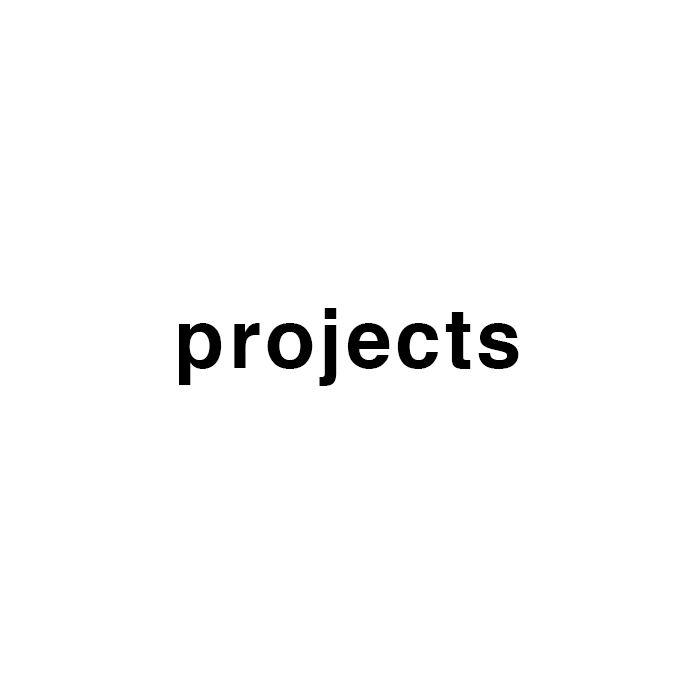
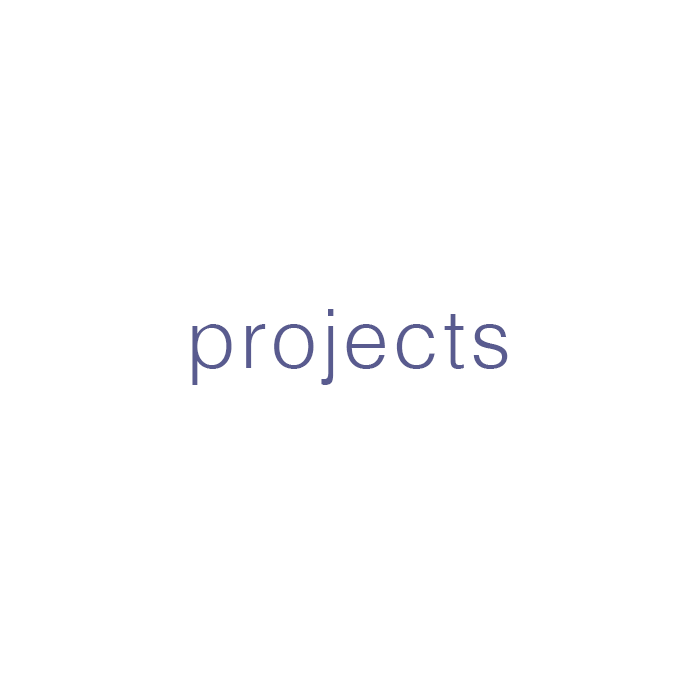
fixing up particles

Changed region(s): [[0.24, 0.42, 0.75, 0.57]]

diff --git a/public/js/three/cube.js b/public/js/three/cube.js
@@ -42,7 +42,7 @@ function init() {
   } );
   for ( var i = 0; i < 1000; i++ ) {
     particle = new THREE.Sprite( spriteMaterial );
-    initParticle( particle, i * 250 );
+    initParticle( particle, i * 200 );
     scene.add( particle );
   }
   // Cube
@@ -97,8 +97,8 @@ function onWindowResize() {
 
 function generateSprite() {
   var canvas = document.createElement( 'canvas' );
-  canvas.width = 16;
-  canvas.height = 16;
+  canvas.width = 12;
+  canvas.height = 12;
   var context = canvas.getContext( '2d' );
   var gradient = context.createRadialGradient( canvas.width / 2, canvas.height / 2, 0, canvas.width / 2, canvas.height / 2, canvas.width / 2 );
   gradient.addColorStop( 0, 'rgba(255,255,255,1)' );
@@ -113,19 +113,19 @@ function initParticle( particle, delay ) {
   var particle = this instanceof THREE.Sprite ? this : particle;
   var delay = delay !== undefined ? delay : 0;
   particle.position.set( 0, 100, 0 );
-  particle.scale.x = particle.scale.y = Math.random() * 32 + 16;
+  particle.scale.x = particle.scale.y = Math.random() * 24;
   new TWEEN.Tween( particle )
     .delay( delay )
-    .to( {}, 10000 )
+    .to( {}, 50000 )
     .onComplete( initParticle )
     .start();
   new TWEEN.Tween( particle.position )
     .delay( delay )
-    .to( { x: Math.random() * 4000 - 2000, y: Math.random() * 1000 - 500, z: Math.random() * 4000 - 2000 }, 10000 )
+    .to( { x: Math.random() * 4000 - 2000, y: Math.random() * 2000 - 1000, z: Math.random() * 4000 - 2000 }, 50000 )
     .start();
   new TWEEN.Tween( particle.scale )
     .delay( delay )
-    .to( { x: 0.01, y: 0.01 }, 10000 )
+    .to( { x: 0.01, y: 0.01 }, 50000 )
     .start();
 }
 

diff --git a/public/stylesheets/style.css b/public/stylesheets/style.css
@@ -17,7 +17,7 @@ body {
 hr {
   border:none;
   height: 1px;
-  background-color: #ccc
+  background-color: #9d9fd0
 }
 
 ::-webkit-scrollbar {
@@ -40,36 +40,30 @@ a {
 .title {
   font-size: 30px;
   letter-spacing: 3px;
-  /*color: #848c9b;*/
-  font-weight: 800;
+  color: #71729d;
 }
 
 #title {
-  font-weight: 600;
   position: absolute;
   font-size: 40px;
   letter-spacing: 7px;
   width: 530px;
   line-height: 50pt;
-  /*height: 50px;*/
   left: 0;
   right: 0;
   margin: auto;
   text-align: center;
   top: 12%;
   color: #fff;
-  /*background-color: #fff;*/
-  /*border: solid 3px #e2aa52;*/
 }
 
 #spin {
-  font-weight: 600;
   position: absolute;
   font-size: 16px;
   width: 100%;
   text-align: center;
   top: 24%;
-  color: #fff;
+  color: #71729d;
 }
 
 #copyright {
@@ -78,14 +72,14 @@ a {
   width: 100%;
   text-align: center;
   bottom: 10px;
-  color: #000;
+  color: #71729d;
 }
 
 #timezone {
   position: absolute;
   font-size: 10px;
   padding: 10px;
-  color: #000;
+  color: #71729d;
 }
 
 .hidden{
@@ -155,17 +149,6 @@ a {
   color: #000;
 }
 
-.con .title, .proj .title, .abt .title, .edu .title{
-  color: #ff7e38;
-}
-
-.con hr, .proj hr {
-  background-color: #ff7e38;
-}
-
-.abt hr, .edu hr {
-  background-color: #ff7e38;
-}
 /*****--contact---*****/
 
 .contactIcon {
